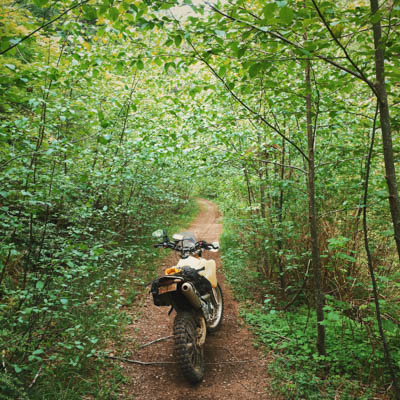
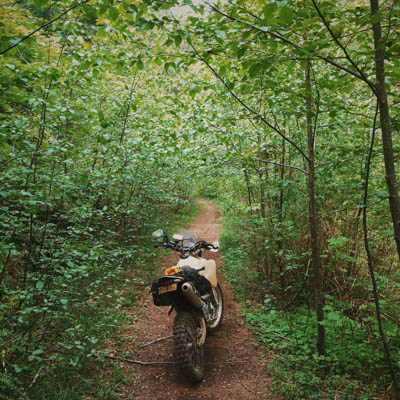
Add two photos for 2016-05-03

diff --git a/js/photos.js b/js/photos.js
@@ -1033,4 +1033,10 @@ var photoList = [{
 },{
   filename: "2016-05-03-1.jpg",
   coordinates: [-123.60147166666667, 45.621669999999995]
+},{
+  filename: "2016-05-03-2.jpg",
+  coordinates: [-123.57171166666667, 45.590803333333334]
+},{
+  filename: "2016-05-03-3.jpg",
+  coordinates: [-123.56724999999999, 45.5912]
 }];
